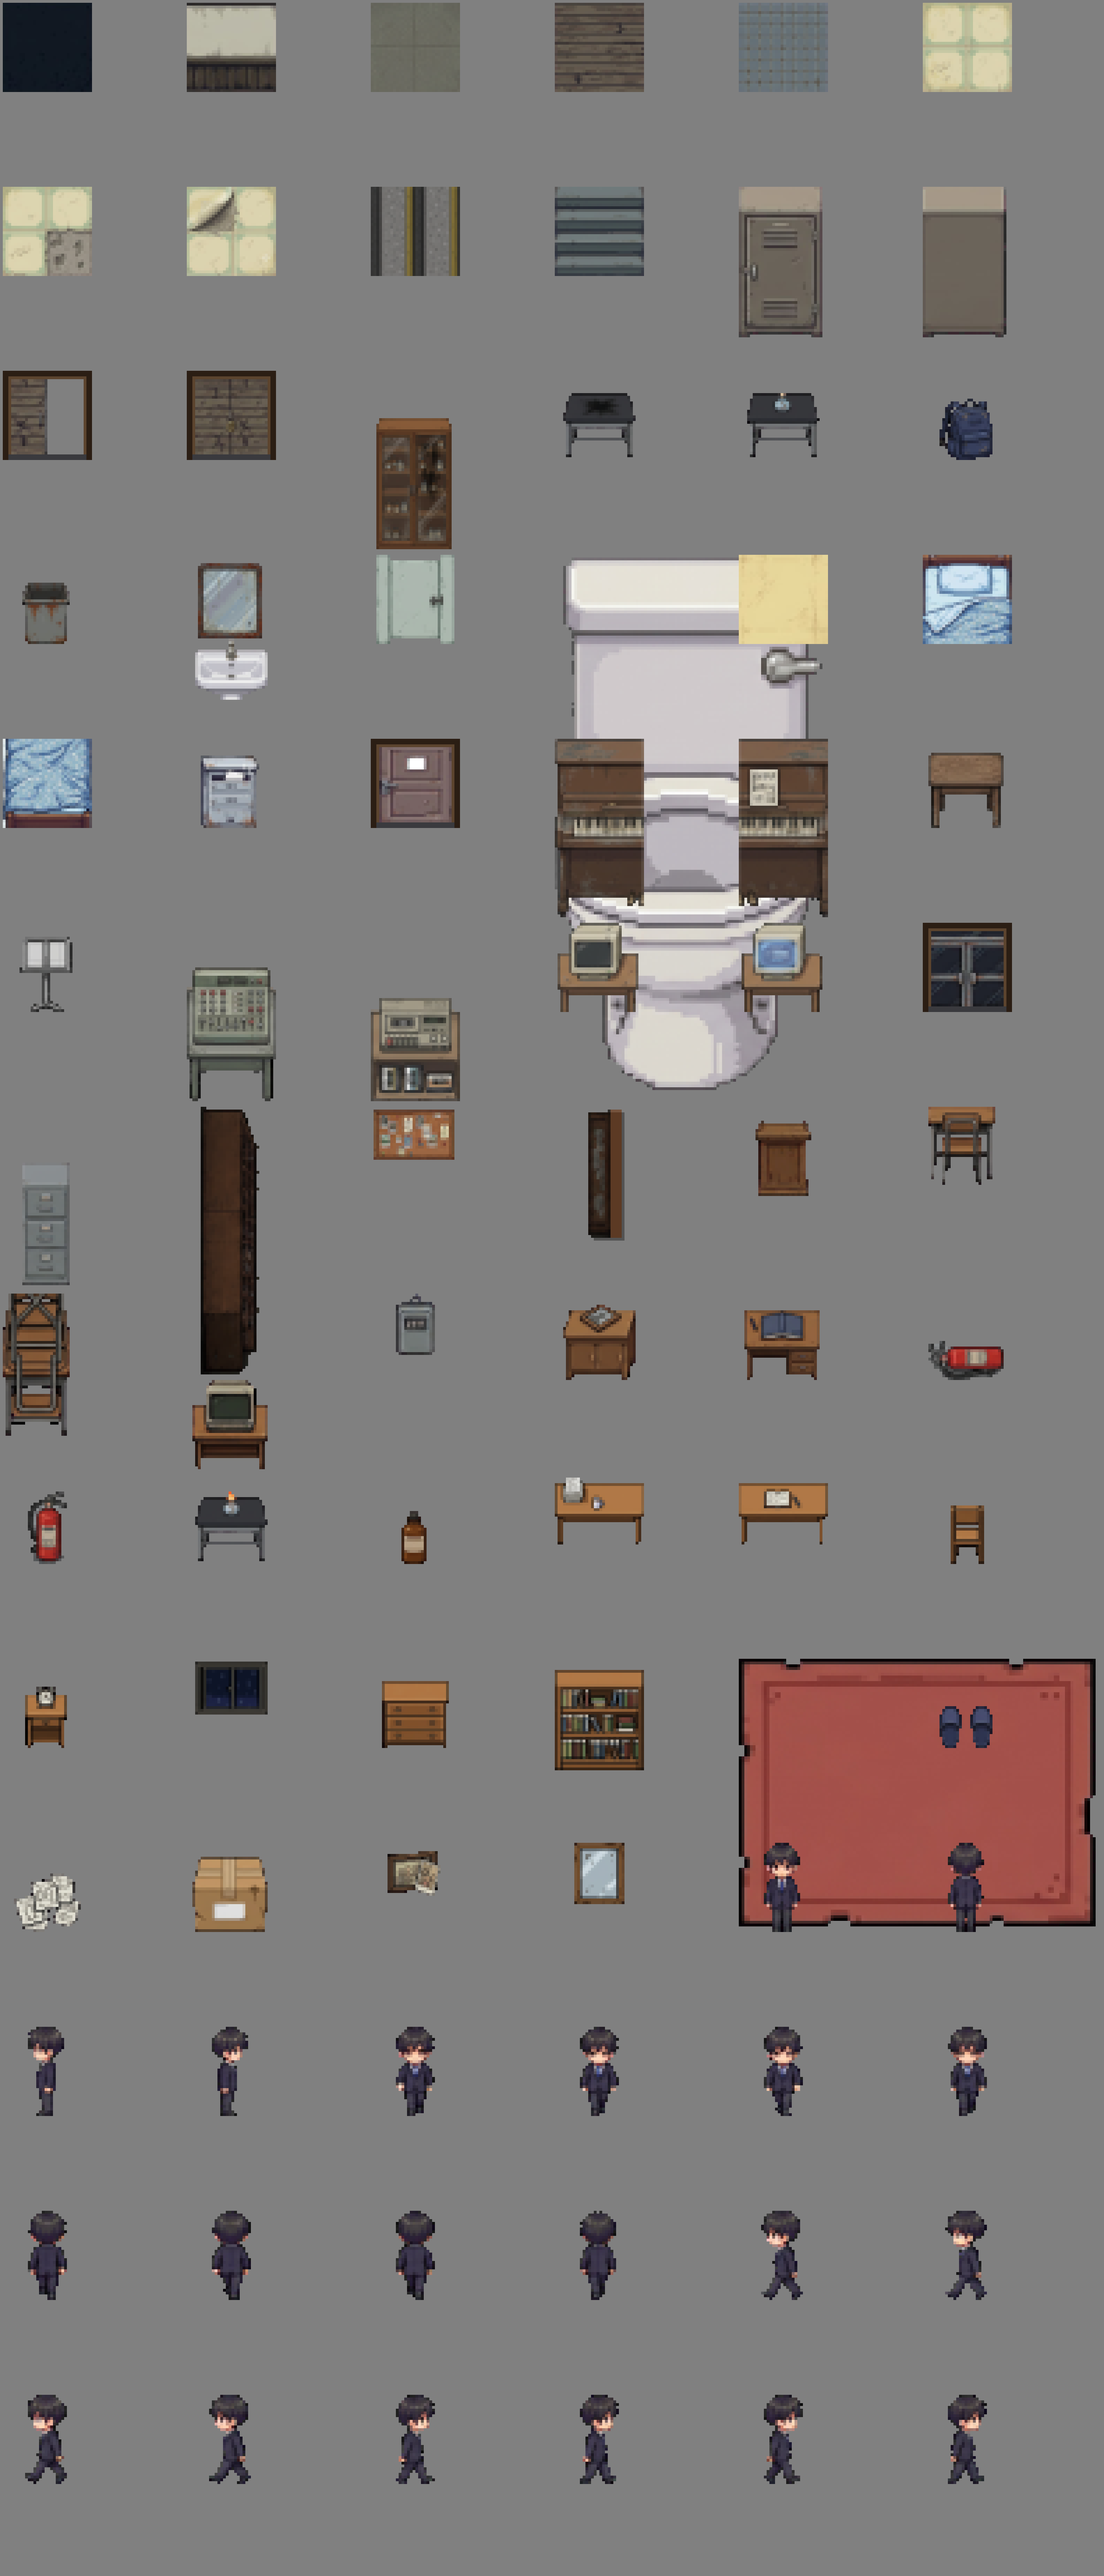
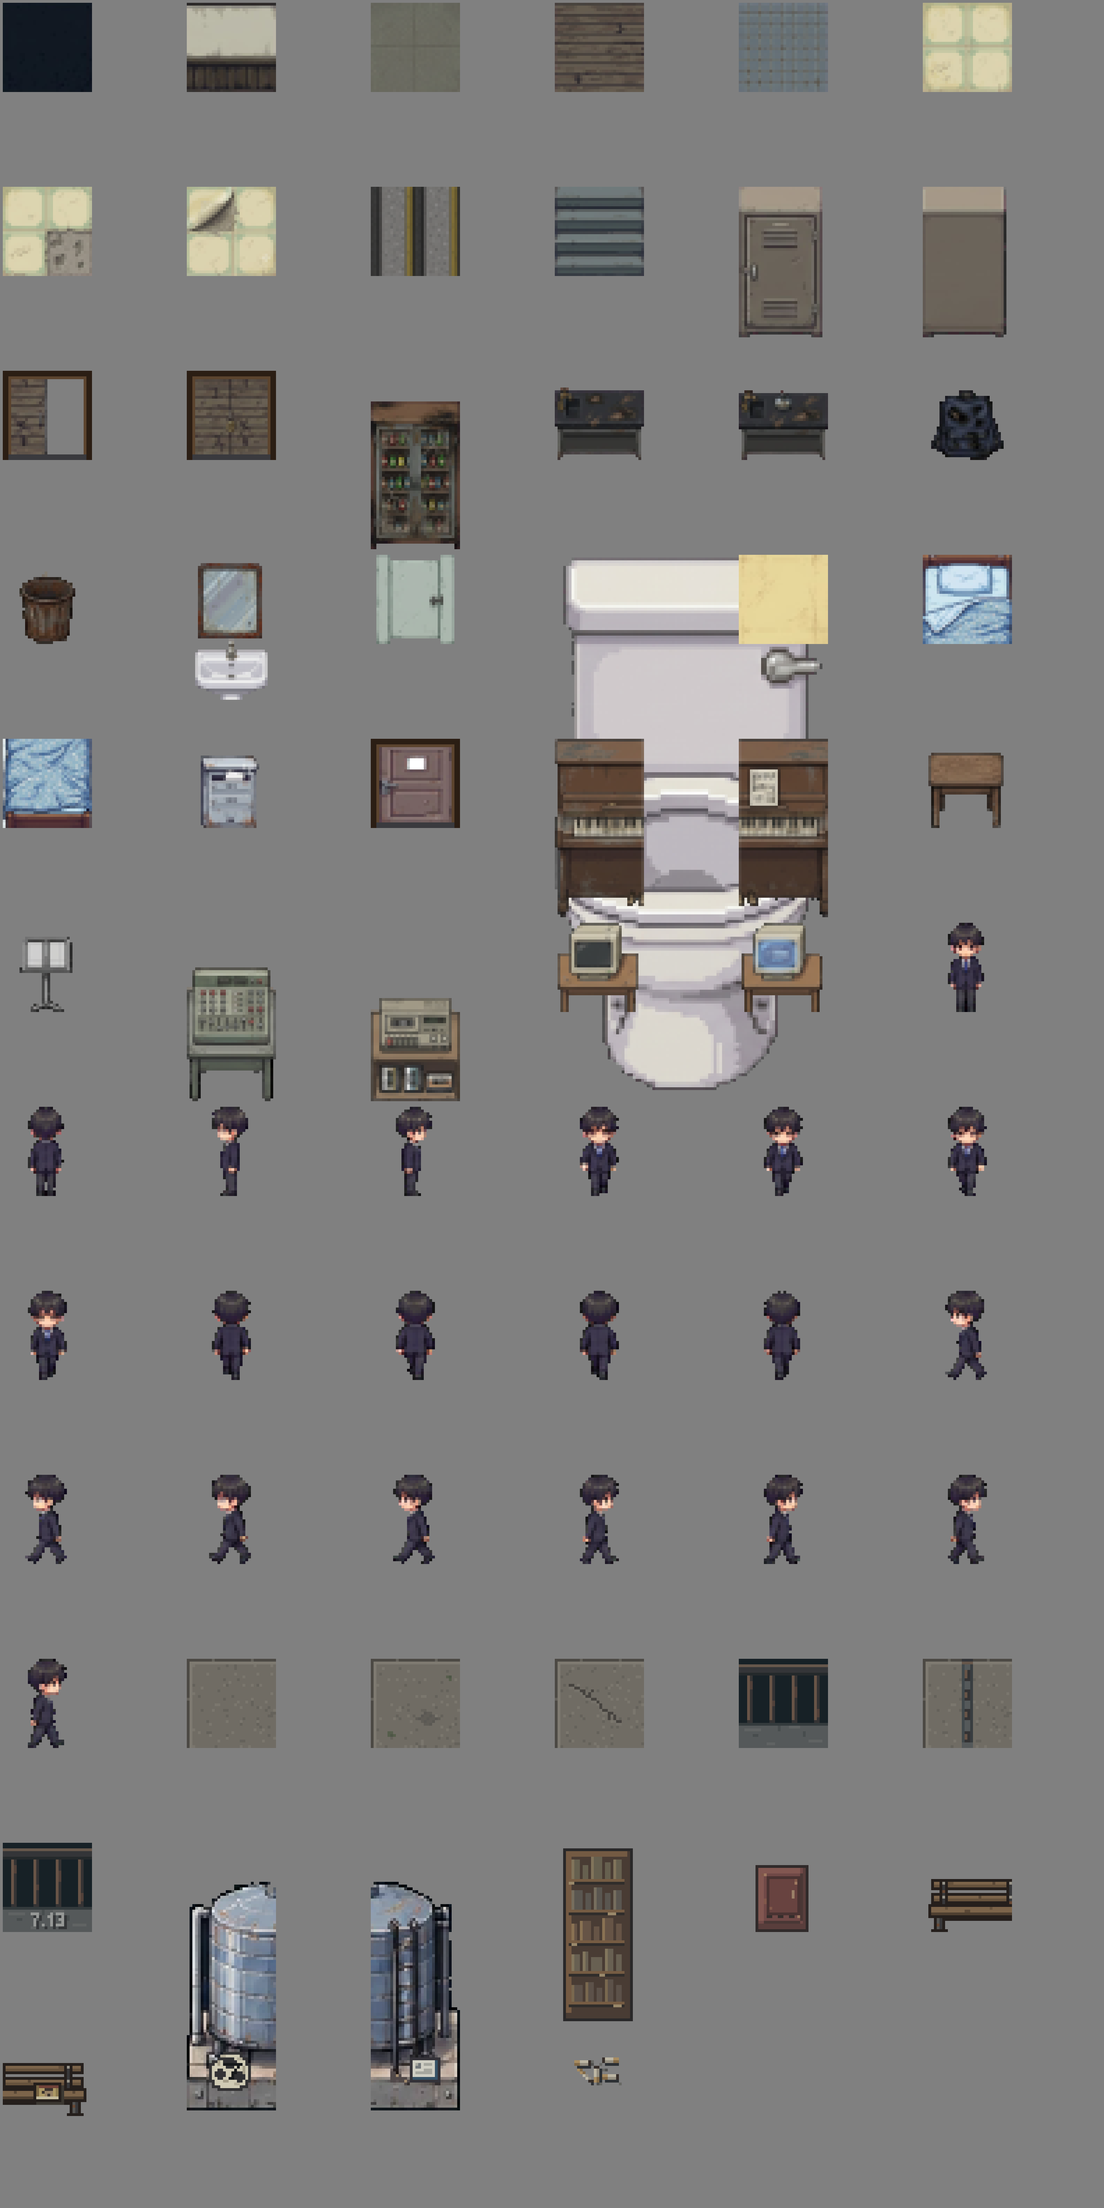
feat: 옥상 에셋 적용 — 바닥·펜스·7.13 각인·물탱크·벤치·소품
- 옥상 바닥 3장·세로 펜스·벤치+만화책·담배꽁초는 직접 찍은 도트(원본 8배)
- 펜스·학생증·소화기함·책장·공은 AI 원본을 1/8로 정확히 줄여 적용, 「7.13」은 펜스 위에 직접 각인
- 물탱크는 두 칸 너비(64×82)로 키워 칸마다 나눔(tank, tank_r). 맵 배치를 x2~5, y3으로 옮기고 꽁초·「일등」 실루엣도 옆으로
- 옥상 좌우 테두리는 위에서 본 세로 펜스(fence_v)로 그림
- tools/sprites.py: pixel·center·align·draw·crop 옵션 추가

diff --git a/src/scenes/Explore.js b/src/scenes/Explore.js
@@ -663,6 +663,8 @@ export default class Explore extends Phaser.Scene {
   tileTex(x, y) {
     let tex = this.map.legend[this.grid[y][x]] || 'wall';
     if (!this.textures.exists(tex)) tex = TILE_FALLBACK[tex] || 'wall'; // 아직 그림이 없는 타일
+    // 펜스가 세로로 이어지는 칸(옥상 좌우 테두리)은 위에서 본 세로 펜스 그림을 쓴다
+    if (tex === 'fence' && y > 0 && this.map.legend[this.grid[y - 1][x]] === 'fence' && this.textures.exists('fence_v')) return 'fence_v';
     if (tex === 'floor_stairs') {
       // 2칸 폭 계단: 왼쪽·오른쪽 가장자리 그림이 있으면 쓴다
       const same = dx => this.map.legend[this.grid[y][x + dx]] === 'floor_stairs';

diff --git a/tools/sprites.py b/tools/sprites.py
@@ -41,6 +41,11 @@
   frame   : 문틀(양옆·위 어두운 나무)과 문턱(아래 회색 줄)을 둘러 벽과 구분되게 한다
   brighten: tile·stretch 결과의 밝기를 곱한다 (예: 1.5 → 어두운 문을 밝게). 문틀은 그 뒤에 둘러서 그대로
   clear_dark : [x0, y0, x1, y1, 밝기] 결과 이미지의 이 범위(0~1 비율)에서 어두운 픽셀을 투명하게 (열린 문 너머로 바닥이 보이게)
+  pixel   : 8 → 도트 한 개가 8×8 블록인 깔끔한 원본을 블록 가운데 색으로 정확히 1/8로 줄인다 (box는 블록 경계에 맞춤)
+            mode가 object면 마젠타를 지워 칸 아래 가운데에 놓고, center: true면 칸 한가운데에 놓는다 (바닥 소품)
+            align: "left" / "right"로 칸 왼쪽·오른쪽 끝에 붙인다 (두 칸짜리 그림을 반으로 나눈 벤치)
+  draw    : [[x, y, w, h, [r, g, b]], ...] 결과 위에 색 사각형을 찍는다 (AI가 못 그린 숫자 각인 등)
+  crop    : [x, y, w, h] 결과에서 이 부분만 잘라 쓴다 (두 칸짜리 그림을 칸마다 나눌 때: 물탱크 왼쪽·오른쪽)
 기본으로 tile·stretch는 가장자리를 4픽셀 더 잘라 배경색이 번진 테두리를 없앤다.
 """
 import json
@@ -192,6 +197,8 @@ def build(key, cfg):
         img[y:y + h, x:x + w] = img[y + dy:y + dy + h, x + dx:x + dx + w]
     if 'parts' in cfg:
         return build_parts(img, cfg)
+    if 'pixel' in cfg:
+        return build_pixel(img, cfg)
     x0, y0, x1, y1 = cfg['box'] if cfg.get('keep_box') else tight(img, cfg['box'])
     mode = cfg.get('mode', 'tile')
     edge = 4 if mode in ('tile', 'stretch') else 0
@@ -312,6 +319,26 @@ def landscape(sub, mask, b):
     return rot, rmask
 
 
+def build_pixel(img, cfg):
+    """도트 한 개가 n×n 블록으로 깔끔하게 그려진 원본: 블록 가운데 색을 하나씩 집어 정확히 1/n로 줄인다 (번짐 없음).
+    box는 블록 경계에 맞춘다. mode가 object면 마젠타를 지우고 W×H 칸 아래 가운데(center면 한가운데)에 놓는다."""
+    n = cfg['pixel']
+    x0, y0, x1, y1 = cfg['box']
+    small = img[y0 + n // 2:y1:n, x0 + n // 2:x1:n]
+    if cfg.get('mode', 'tile') != 'object':
+        return np.dstack([small, np.full(small.shape[:2], 255)]).astype(np.uint8)
+    keep = ~magentaish(small) & ~((small[..., 0] > 200) & (small[..., 1] < 60) & (small[..., 2] > 200))
+    ys, xs = np.nonzero(keep)
+    small, keep = small[ys.min():ys.max() + 1, xs.min():xs.max() + 1], keep[ys.min():ys.max() + 1, xs.min():xs.max() + 1]
+    W, H = cfg.get('size', [32, 32])
+    th, tw = keep.shape
+    canvas = np.zeros((H, W, 4), np.uint8)
+    ox = {'left': 0, 'right': W - tw}.get(cfg.get('align'), (W - tw) // 2)
+    oy = (H - th) // 2 if cfg.get('center') else H - th
+    canvas[oy:oy + th, ox:ox + tw][keep] = np.dstack([small, np.full(keep.shape, 255)])[keep]
+    return canvas
+
+
 def build_parts(img, cfg):
     W, H = cfg.get('size', [32, 32])
     canvas = np.zeros((H, W, 4), np.uint8)
@@ -362,6 +389,11 @@ def main():
                 print(f'{key:16s} 원본 없음 — 건너뜀 ({cfg["src"]})')
             continue
         arr = build(key, cfg)
+        for x, y, w, h, rgb in cfg.get('draw', []):
+            arr[y:y + h, x:x + w] = [*rgb, 255]
+        if 'crop' in cfg:
+            x, y, w, h = cfg['crop']
+            arr = np.ascontiguousarray(arr[y:y + h, x:x + w])
         Image.fromarray(arr, 'RGBA').save(os.path.join(OUT, key + '.png'))
         made[key] = [arr.shape[1], arr.shape[0]]
         print(f'{key:16s} {arr.shape[1]}x{arr.shape[0]}')

diff --git a/docs/GDD.md b/docs/GDD.md
@@ -2,7 +2,7 @@
 
 > 이 문서가 기획의 단일 기준이다. 결정이 바뀌면 이 문서를 먼저 고친다.
 > 원본 스토리보드: `docs/원본_스토리.md` 참고 (사용자 초안)
-> 마지막 갱신: 2026-10-17
+> 마지막 갱신: 2026-10-19
 
 ---
 
@@ -210,6 +210,7 @@
 옥상의 기억은 **7월 13일 방과후** — 가해자 셋과 재민이 "내일 피아노 왕자를 과학실로 부르자"고 계획한 자리다 (일기장 「내일 방과후에 과학실로 오래. 재민이도 온대.」의 전날).
 
 진행: 옥상 도착 → 단서 4개 조사 → 난간의 낙서 「7.13」에서 **P6** → 조각 5 → 소화기함의 교무실 열쇠 → 학교 변화 2단계 + 1층 귀환. 옥상↔2층은 계단탑 계단으로 오갈 수 있다. 계단탑 철문 앞 양옆에 명찰(「문 앞」)과 소화기함(「출입문 옆」).
+- (2026-10-19) 옥상 배치: 물탱크는 두 칸 너비의 큰 탱크 2개(x2~5, y3)이고, 담배꽁초는 그 오른쪽 그늘(6,3). 과거 겹쳐보기의 「일등」 실루엣도 꽁초 옆(6,4)에 선다.
 - (2026-10-17, 이슈 #37) P6 지점은 위쪽 난간 한 칸에 녹슨 자리와 긁힌 「7.13」이 그려져 있어 멀리서도 다른 난간과 구분된다. 목표 패널도 「위쪽 난간의 「7.13」 낙서」로 위치를 알려 준다.
 
 | 단계 | 내용 |
